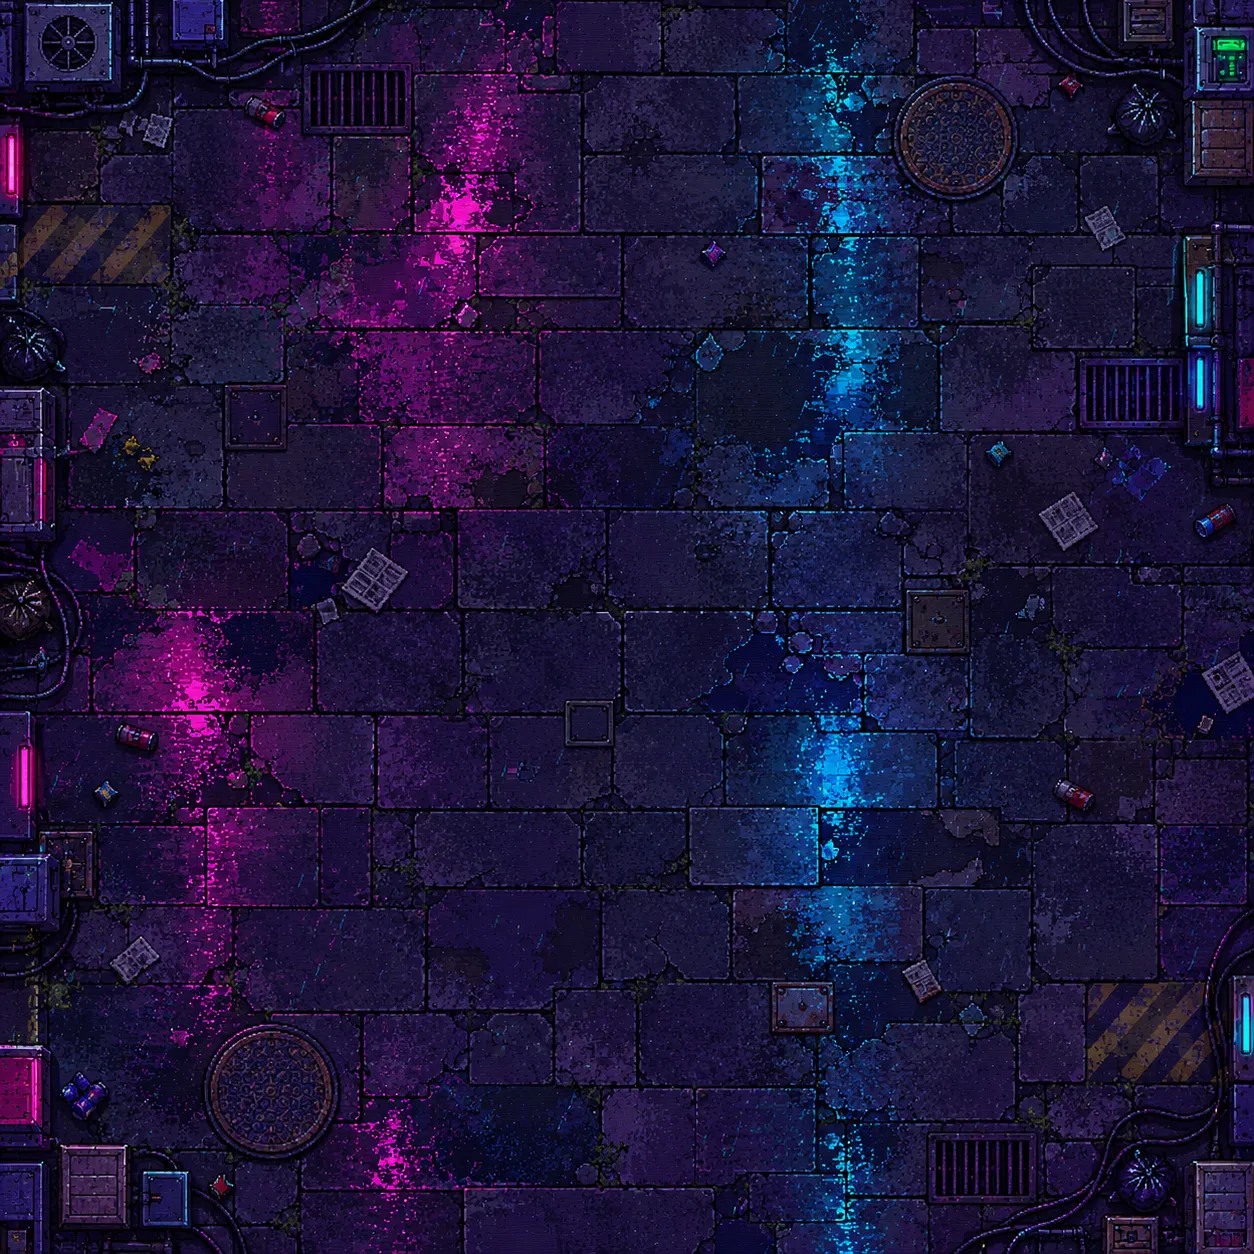
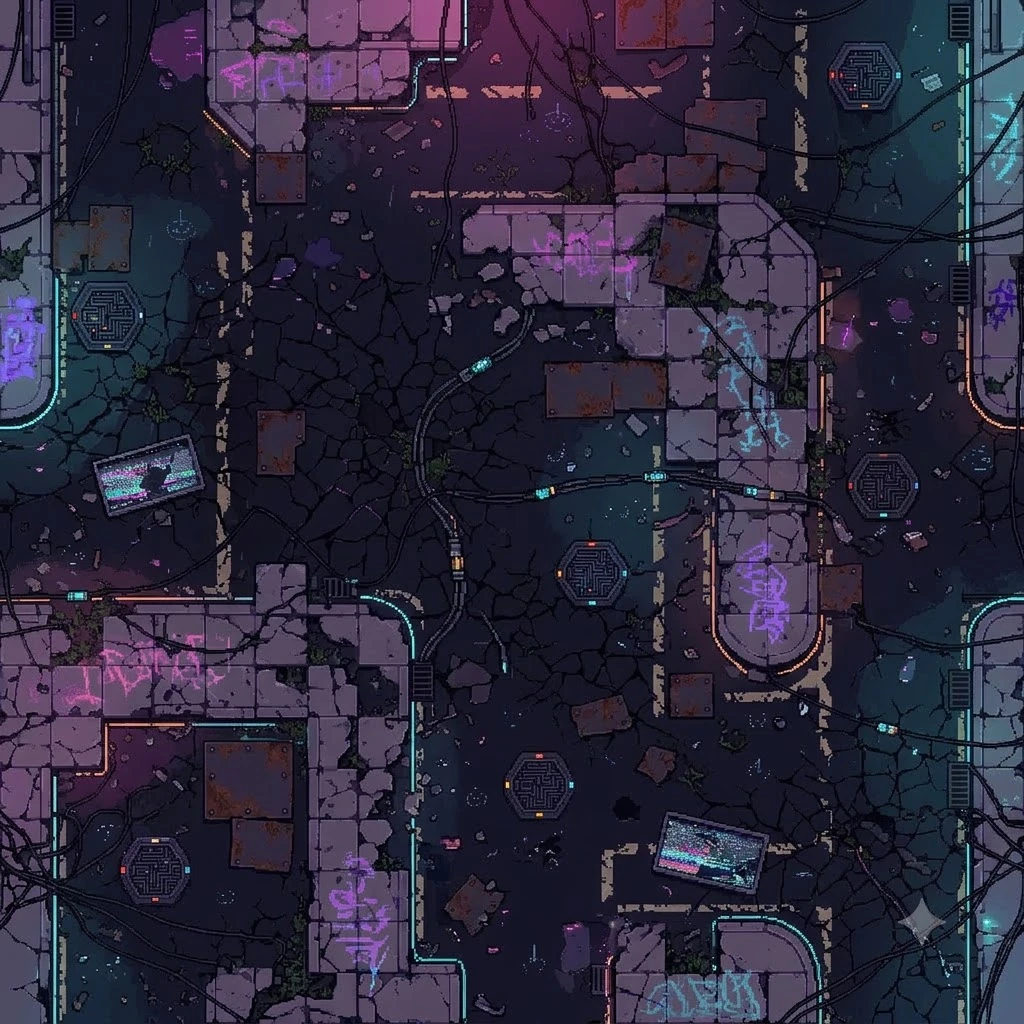
Chapter 1 ground: new cyberpunk slum art at character-matched scale
Claude-Session: https://claude.ai/code/session_01KZt8jDAL2wEEWPwKQF5Ffo

diff --git a/tools/art/ground_from_ref.py b/tools/art/ground_from_ref.py
@@ -61,16 +61,17 @@ def best_cut(a, lo, hi, length, axis):
 
 
 def slum():
-    a = load('ground1_ref.png')
-    L = 1040  # 가장자리 소품(x<75, x>1180)을 뺀 폭 안에서
-    x0, dx = best_cut(a, 76, 1178, L, 1)
-    y0, dy = best_cut(a, 2, 1252, L, 0)
+    a = load('ground1_ref.png').copy()
+    a[890:960, 890:960] = a[810:880, 890:960]  # 오른쪽 아래 생성기 워터마크(✦)를 옆 무늬로 덮는다
+    L = 980
+    x0, dx = best_cut(a, 2, 1022, L, 1)
+    y0, dy = best_cut(a, 2, 1022, L, 0)
     print('slum cut', x0, y0, round(dx, 1), round(dy, 1))
     c = a[y0:y0 + L, x0:x0 + L]
-    T = 720  # 판석 한 장 ≈ 100px (기존 바닥과 비슷), 플레이어 24px
+    T = round(L * 0.56)  # 육각 맨홀 ≈ 36px (캐릭터 24px의 1.5배)
     c = shrink(c, T, T)
-    c = feather_y(feather_x(c, 10), 10)
-    quant(c, os.path.join(OUT, 'ground.png'), 0.92)
+    c = feather_y(feather_x(c, 8), 8)
+    quant(c, os.path.join(OUT, 'ground.png'))
 
 
 def industrial():
